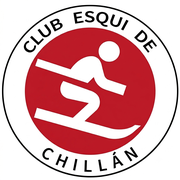
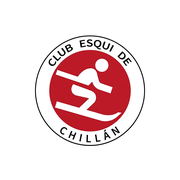
Renombrar app a CEC 26 y regenerar icono con relleno para que no se corte

diff --git a/index.html b/index.html
@@ -3,14 +3,14 @@
 <head>
 <meta charset="UTF-8" />
 <meta name="viewport" content="width=device-width, initial-scale=1.0" />
-<title>Ficha Diaria CEC</title>
+<title>CEC 26</title>
 <link rel="manifest" href="/manifest.json">
 <link rel="icon" type="image/png" sizes="32x32" href="/favicon-32.png">
 <link rel="icon" type="image/png" sizes="16x16" href="/favicon-16.png">
 <link rel="apple-touch-icon" href="/apple-touch-icon.png">
 <meta name="theme-color" content="#BC1A25">
 <meta name="apple-mobile-web-app-capable" content="yes">
-<meta name="apple-mobile-web-app-title" content="CEC Race">
+<meta name="apple-mobile-web-app-title" content="CEC 26">
 <meta name="apple-mobile-web-app-status-bar-style" content="black-translucent">
 <link rel="preconnect" href="https://fonts.googleapis.com">
 <link href="https://fonts.googleapis.com/css2?family=Oswald:wght@500;600;700&family=Inter:wght@400;500;600&family=JetBrains+Mono:wght@500;700&display=swap" rel="stylesheet">
